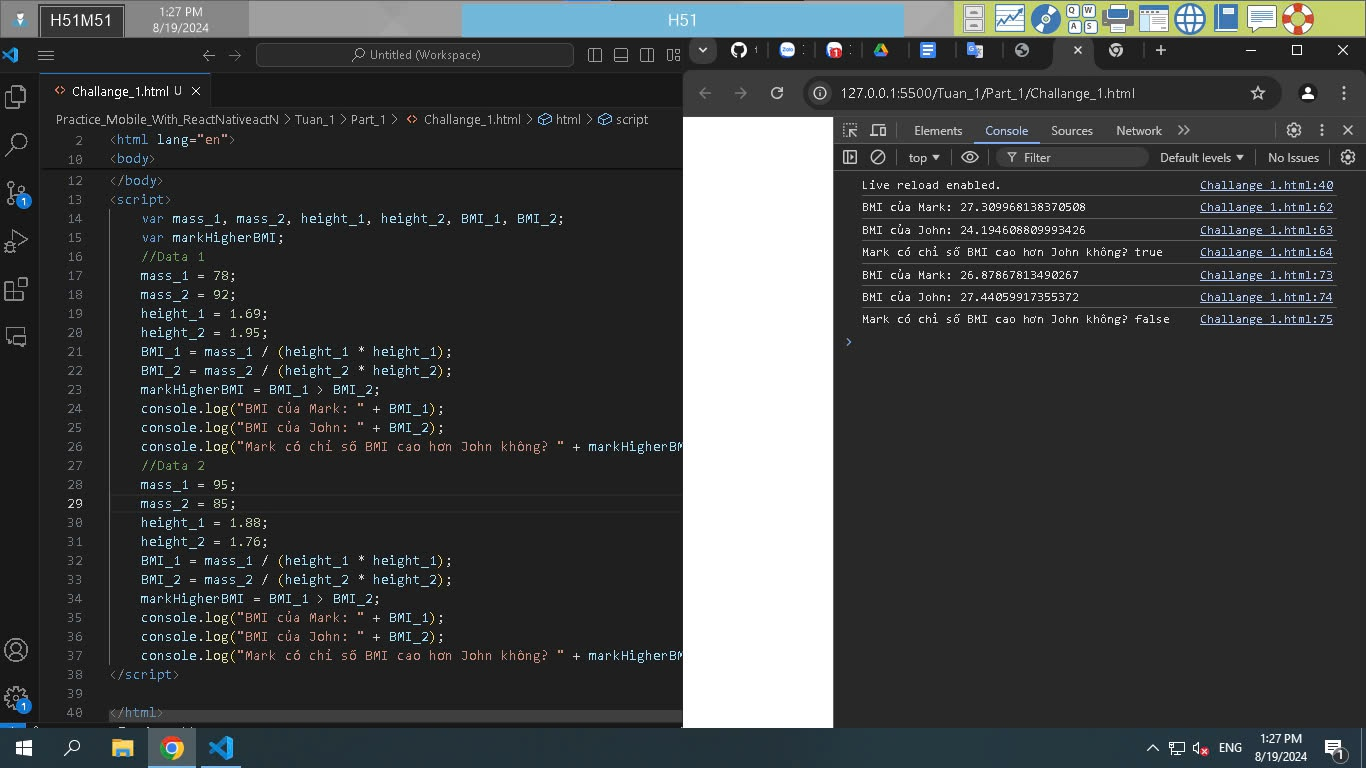
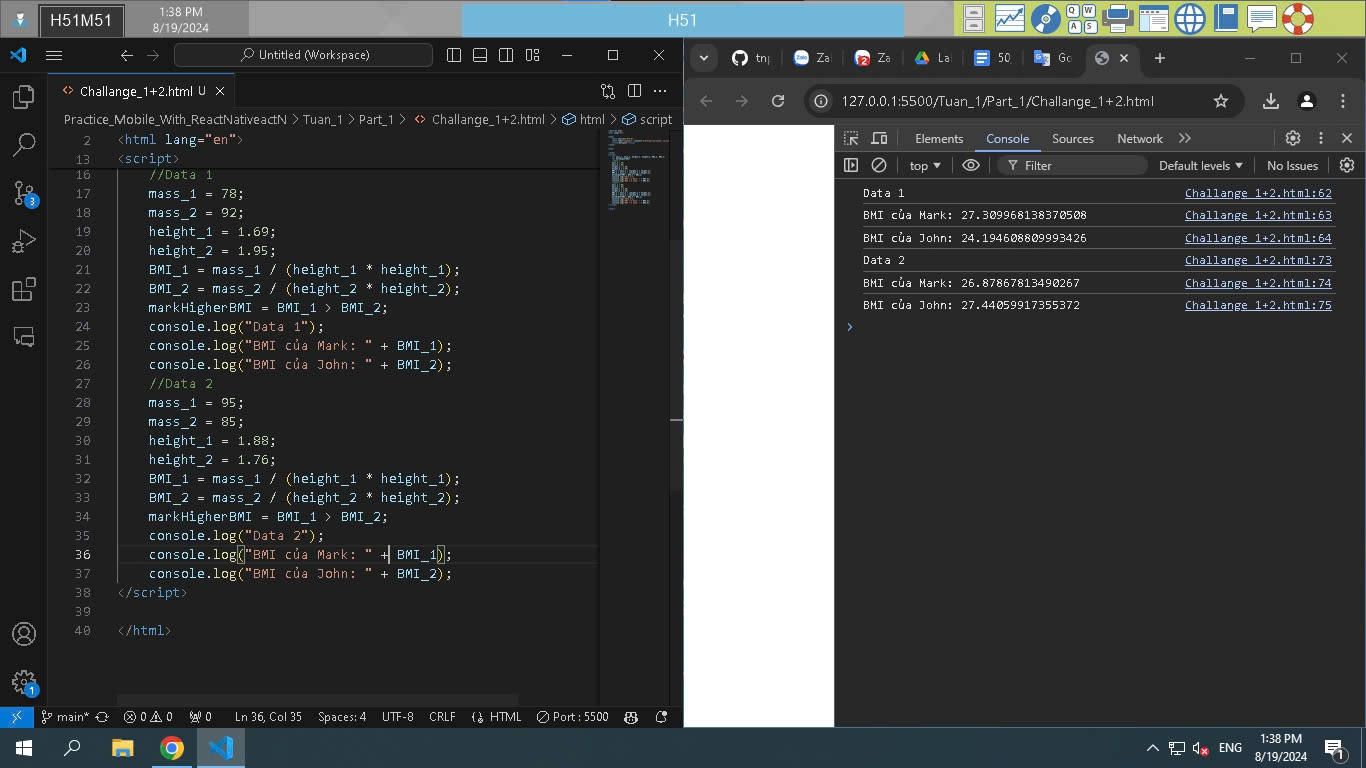
Final Challenge 2

diff --git a/Tuan_1/Part_1/Challange_1+2.html b/Tuan_1/Part_1/Challange_1+2.html
@@ -24,6 +24,14 @@
     console.log("Data 1");
     console.log("BMI của Mark: " + BMI_1);
     console.log("BMI của John: " + BMI_2);
+    if (markHigherBMI) {
+        console.log("Mark có BMI cao hơn John!");
+        console.log(`BMI của Mark (${BMI_1}) cao hơn BMI của John (${BMI_2})!`);
+    } else {
+        console.log("John có BMI cao hơn Mark!");
+        console.log(`BMI của John (${BMI_2}) cao hơn BMI của Mark (${BMI_1})!`);
+    }
+
     //Data 2
     mass_1 = 95;
     mass_2 = 85;
@@ -35,6 +43,13 @@
     console.log("Data 2");
     console.log("BMI của Mark: " + BMI_1);
     console.log("BMI của John: " + BMI_2);
+    if (markHigherBMI) {
+        console.log("Mark có BMI cao hơn John!");
+        console.log(`BMI của Mark (${BMI_1}) cao hơn BMI của John (${BMI_2})!`);
+    } else {
+        console.log("John có BMI cao hơn Mark!");
+        console.log(`BMI của John (${BMI_2}) cao hơn BMI của Mark (${BMI_1})!`);
+    }
 </script>
 
 </html>
